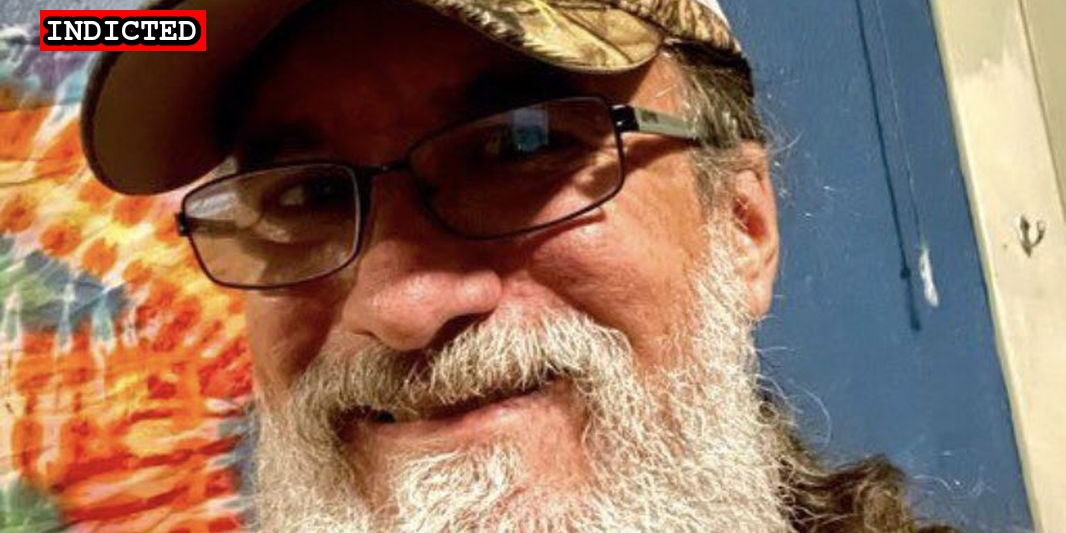
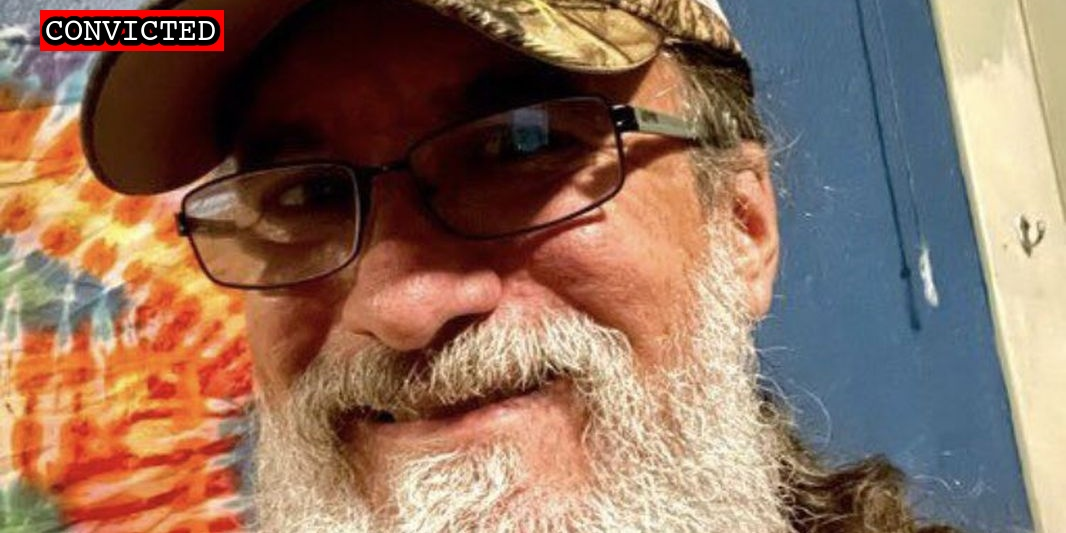
Additional updates

Changed region(s): [[0.031, 0.0, 0.2167, 0.1201]]

diff --git a/docs/_suspects/william-calhoun.md b/docs/_suspects/william-calhoun.md
@@ -4,18 +4,18 @@ lastName: Calhoun
 hashtag: WilliamCalhoun
 aka:
 residence: Georgia
-status: Indicted
+status: Convicted
 date: 2021-01-15
 charged: 2021-01-15
 indicted: 2021-02-17
-convicted:
+convicted: 2023-03-20
 acquitted:
 sentenced:
 dismissed:
 deceased:
-plea_hearing:
-trial_date:
-trial_type:
+plea_hearing: 2023-03-20
+trial_date: 2023-03-01
+trial_type: Bench Trial
 jury_selection:
 sentencing:
 status_conference:
@@ -32,7 +32,7 @@ raid:
 perpwalk:
 quote: "We physically took control of the Capitol Building in a hand to hand hostile takeover."
 title: William Calhoun charged on January 15, 2021
-description: Click for latest case details. Suspects innocent until proven guilty.
+description: Convicted on March 20, 2023. Click for latest case details.
 author: seditiontrack
 layout: suspect
 published: true
@@ -41,8 +41,25 @@ caseName: USA v. CALHOUN
 judge: Dabney L. Friedrich
 videos:
 charges:
+  - code: 18 USC § 1512(c)(2)
+    title: Obstruction of an Official Proceeding
+    url: https://www.law.cornell.edu/uscode/text/18/1512
+    felony: true
+  - code: 18 USC § 1752(a)(1)
+    title: Entering a restricted building or grounds
+    url: https://www.law.cornell.edu/uscode/text/18/1752
+    felony: false
+  - code: 18 USC § 1752(a)(2)
+    title: Disorderly and disruptive conduct in a restricted building or grounds
+    url: https://www.law.cornell.edu/uscode/text/18/1752
+    felony: false
+  - code: 40 USC § 5104(e)(2)(D)
+    title: Disorderly Conduct in a Capitol Building
+    url: https://www.law.cornell.edu/uscode/text/40/5104
+    felony: false
 sentence:
 ---
+
 - [News Report](https://www.11alive.com/article/news/crime/trials/mccall-calhoun-probable-cause-dc-riots/85-b805cef5-82f0-4b22-aa63-d9ca62d6472d)
 - [Complaint](https://www.justice.gov/opa/page/file/1356041/download)
 - [Statement of Facts](https://www.justice.gov/opa/page/file/1356036/download)
@@ -50,3 +67,4 @@ sentence:
 - [Indictment](https://www.justice.gov/usao-dc/case-multi-defendant/file/1372146/download)
 - [Defense Motion for Release](https://extremism.gwu.edu/sites/g/files/zaxdzs2191/f/William%20McCall%20Calhoun%20Jr.%20Defense%20Motion%20for%20Reconsideration%20of%20Detention.pdf)
 - [Government Opposition to Release](https://extremism.gwu.edu/sites/g/files/zaxdzs2191/f/William%20McCall%20Calhoun%20Jr.%20Government%20Opposition%20to%20Motion%20for%20Release.pdf)
+- [Court Verdict](https://storage.courtlistener.com/recap/gov.uscourts.dcd.227621/gov.uscourts.dcd.227621.163.0_1.pdf)

diff --git a/docs/_suspects/alexis-bustos.md b/docs/_suspects/alexis-bustos.md
@@ -41,15 +41,16 @@ caseName: USA v. BUSTOS
 judge: Carl J. Nichols
 videos:
 charges:
-- code: 40 USC § 5104(e)(2)(G)
-  title: Parading, demonstrating or picketing in a Capitol building
-  url: https://www.law.cornell.edu/uscode/text/40/5104
-  felony: false
+  - code: 40 USC § 5104(e)(2)(G)
+    title: Parading, demonstrating or picketing in a Capitol building
+    url: https://www.law.cornell.edu/uscode/text/40/5104
+    felony: false
 sentence:
   - 2 years probation
   - 30 hours community service
   - $500 restitution
 ---
+
 - [News Report](https://www.presstelegram.com/2021/11/30/2-long-beach-men-charged-in-connection-to-capitol-insurrection/)
 - [Statement of Facts](https://www.justice.gov/usao-dc/case-multi-defendant/file/1550026/download)
 - [Information](https://www.justice.gov/usao-dc/case-multi-defendant/file/1550041/download)

diff --git a/docs/_suspects/kevin-galetto.md b/docs/_suspects/kevin-galetto.md
@@ -56,4 +56,5 @@ sentence:
 - [Complaint](https://www.justice.gov/usao-dc/case-multi-defendant/file/1389316/download)
 - [Statement of Facts](https://www.justice.gov/usao-dc/case-multi-defendant/file/1389321/download)
 - [Indictment](https://www.justice.gov/usao-dc/case-multi-defendant/file/1459351/download)
+- [Plea Agreement](https://storage.courtlistener.com/recap/gov.uscourts.dcd.234538/gov.uscourts.dcd.234538.57.0.pdf)
 - [Statement of Offense](https://storage.courtlistener.com/recap/gov.uscourts.dcd.234539/gov.uscourts.dcd.234539.56.0.pdf)
